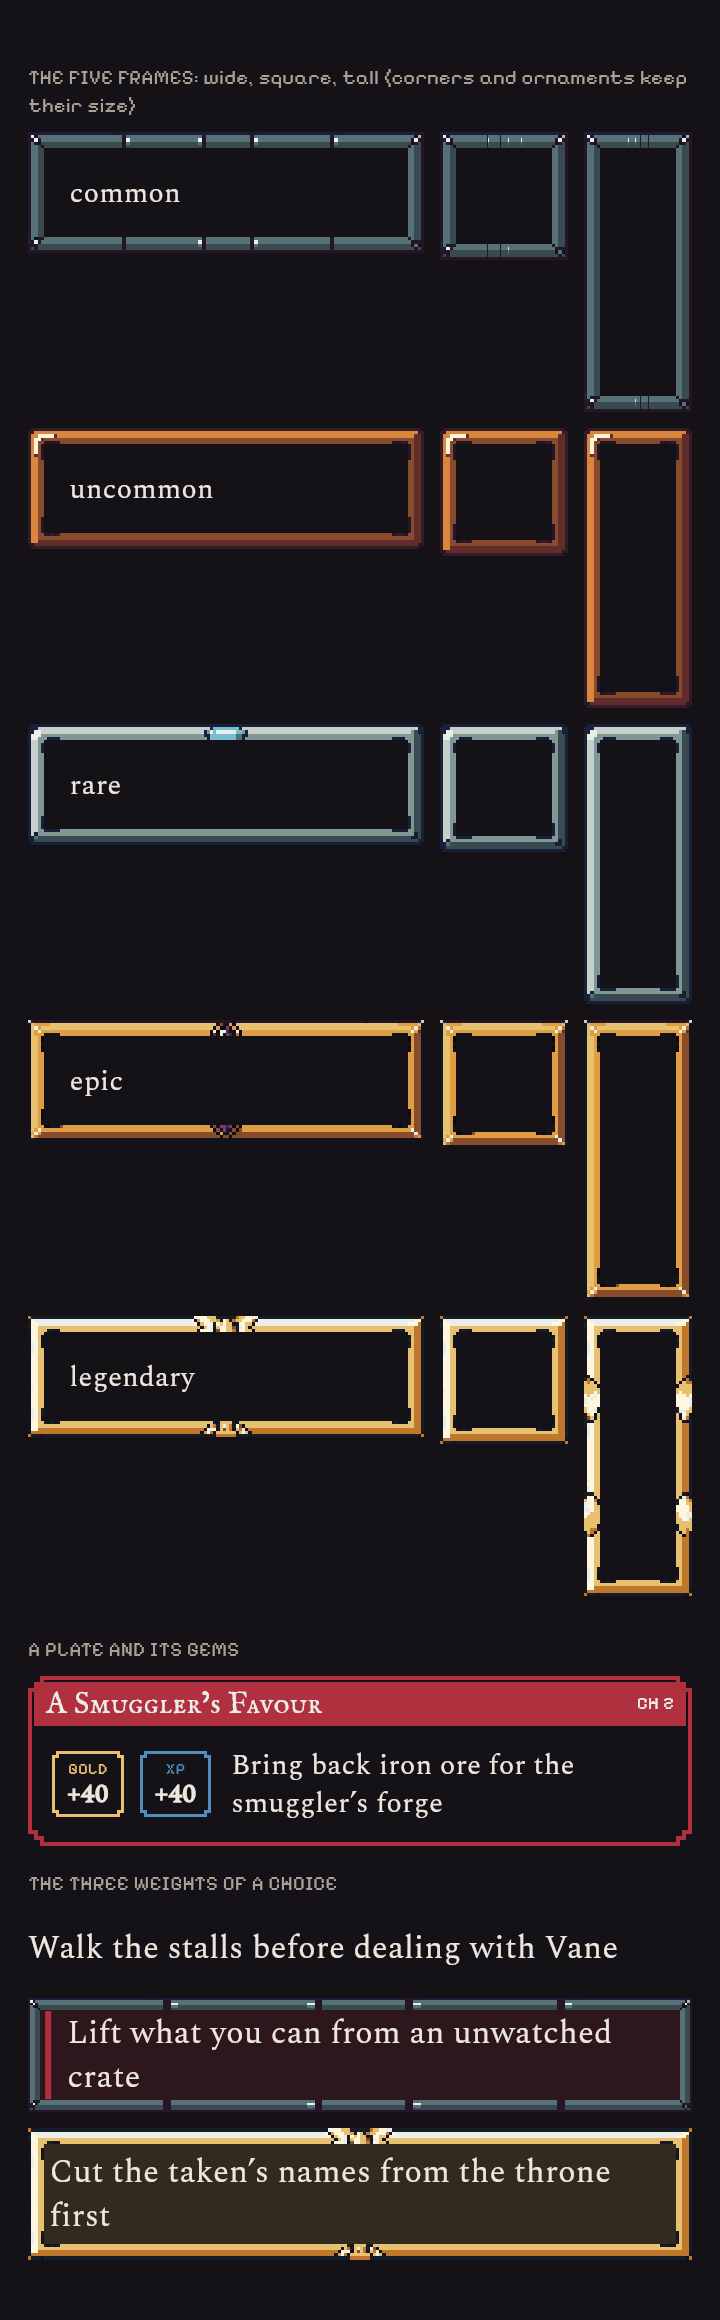
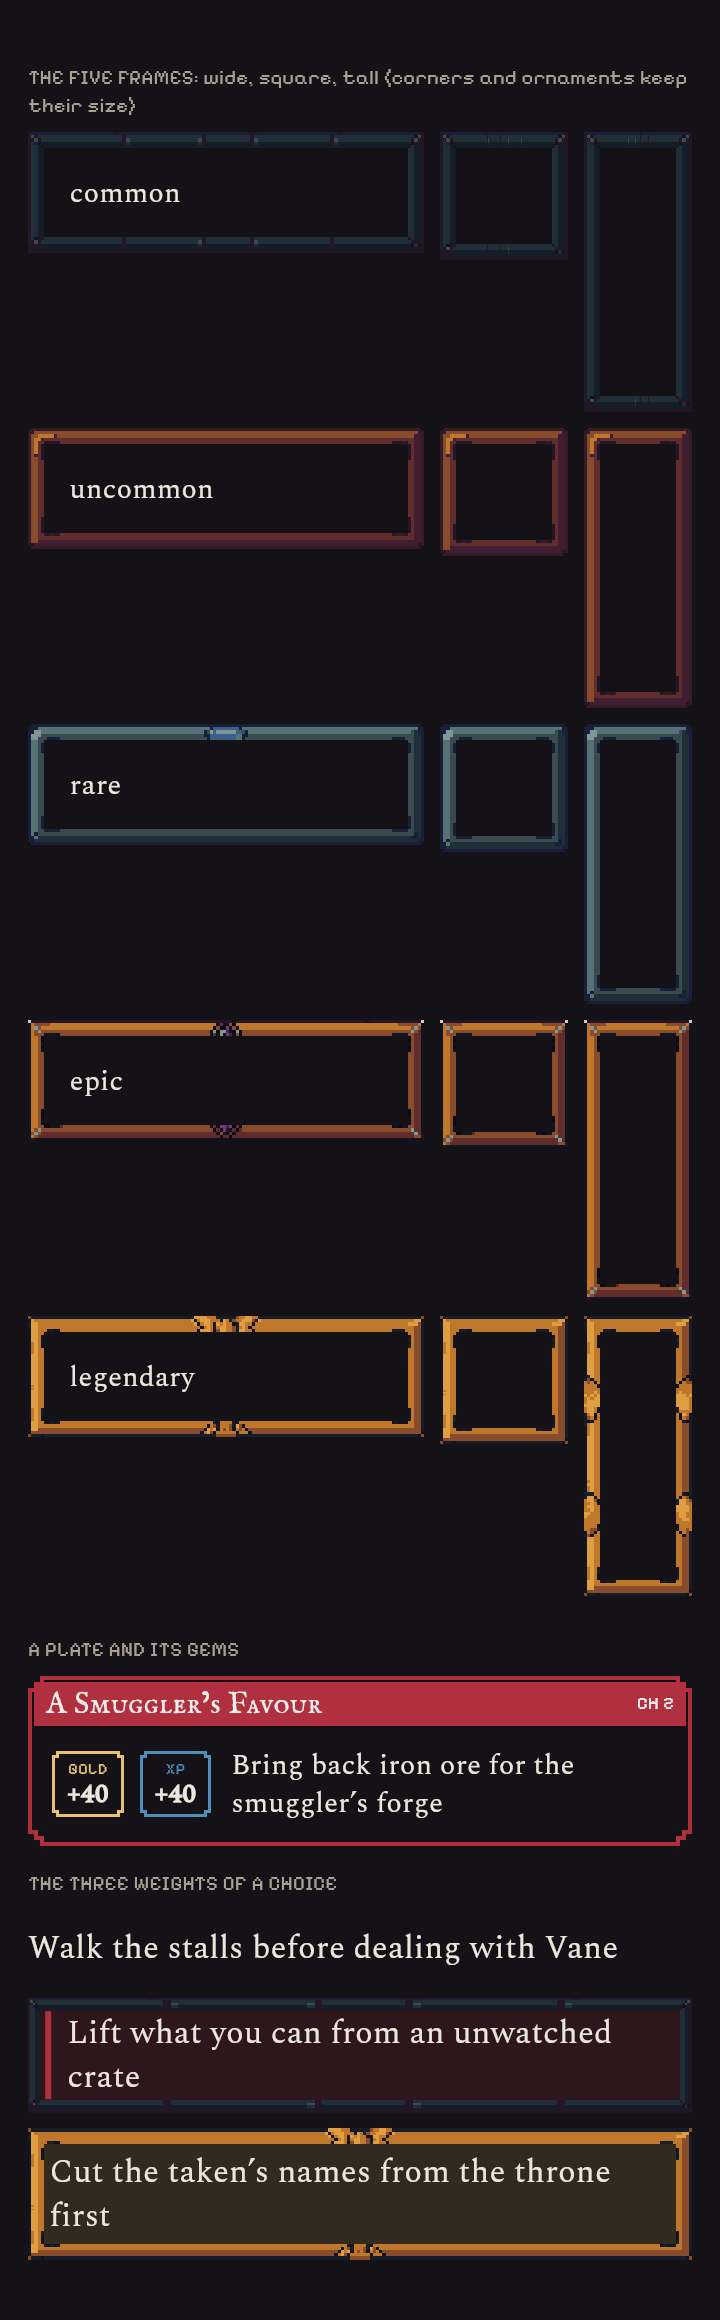
Story kit: Art's deep frames (frame_<tier>_dim.png) in the bundle, the gallery drawn with them
Claude-Session: https://claude.ai/code/session_019ETFw2Y7wpHSXWG5mmACty

diff --git a/test/story_panel_test.dart b/test/story_panel_test.dart
@@ -67,6 +67,10 @@ void main() {
       (tester) async {
     await tester.runAsync(StoryFrames.instance.preload);
     expect(StoryFrames.instance.imageFor(CardTier.rare)?.width, 104);
+    // Art's deep re-tone is in the bundle, so every tier loads the dim art.
+    for (final tier in CardTier.values) {
+      expect(StoryFrames.instance.dim[tier], isTrue, reason: tier.name);
+    }
     await tester.pumpWidget(const MaterialApp(
       home: Scaffold(
         body: Center(

diff --git a/lib/app_info.dart b/lib/app_info.dart
@@ -1,6 +1,6 @@
 class AppInfo {
   static const String name = 'Narrative Data App';
-  static const String version = '1.977.0';
+  static const String version = '1.978.0';
 
   static String get displayName => '$name v$version';
 }

diff --git a/CHANGELOG.md b/CHANGELOG.md
@@ -8,6 +8,10 @@ and the version it bumped `pubspec.yaml` to). Format loosely follows
 History before v1.23.1 predates per-PR versioning in this repository and
 isn't reconstructable from git history alone.
 
+## [1.978.0+1014]
+
+- Story panels: the kit for the story side's new look (UX, the user's pick "the mix" with the deep frames; docs/proposals/story-mix.md). `StoryFrame` dresses any box in Art's rarity frames (nine-sliced, so the corners and each tier's ornaments, the gem, the crown and the leaves, keep their size and only the plain metal stretches); it wears `frame_<tier>_dim.png`, Art's deep re-tone of the frames (every tier two steps down the Apollo ramps, no generation; the five files are in `assets/visuals/cards/`), and the original frames when a dim file is missing. `StoryPlate` and `StoryGem` are the fight blocks' nameplate and gems for the story's state screens, and `storyWeightFrame` maps a choice's weight (`lib/data/story_plates.dart`) to its frame: plain has none, weighty the clan's accent in the quiet frame, major the rich metal. Nothing on a screen changes yet; the screens come one by one.
+
 ## [1.977.0+1013]
 
 - Story: what each choice's and quest's plate shows, for UX-2's story redesign (display only; no rule changes). A choice now tells which clan its effects touch (its claim, an offer, a pledge, or the standing it moves most; none when its consequences are hidden) and how much it weighs: plain, weighty (alignment, a companion's approval, politics, an item or a quest) or major (a claim, a pledge, the Throne, a banner piece, an ally lost, or a companion's approval moved by 5 or more). Of the story's 1,156 choices, 259 touch a clan; 622 are plain, 476 weighty and 58 major. Quests get an optional display `clan` (empty for now: Narrative fills it; proposals in docs/proposals/quest-clans.md); a quest without one wears its faction's plate, or the neutral one. The plates themselves come with UX-2's change.
